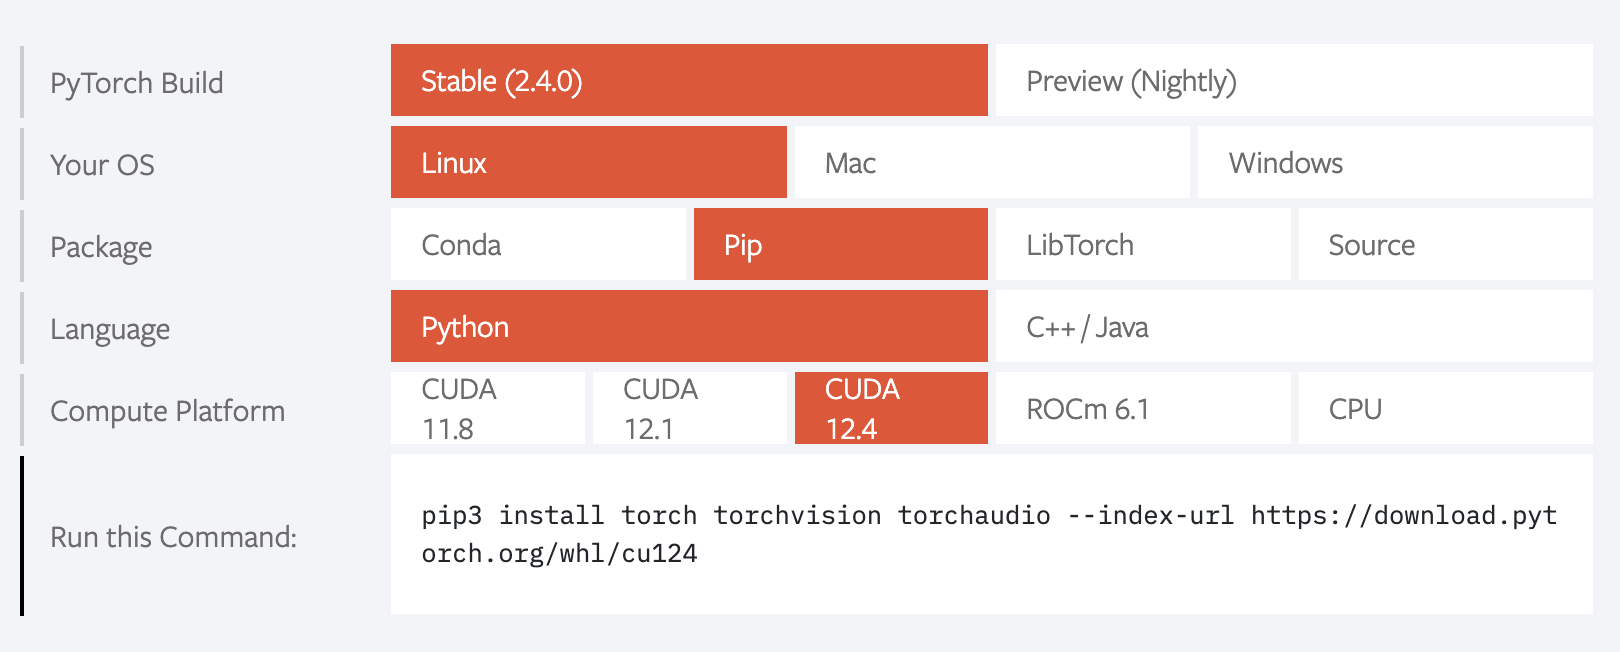
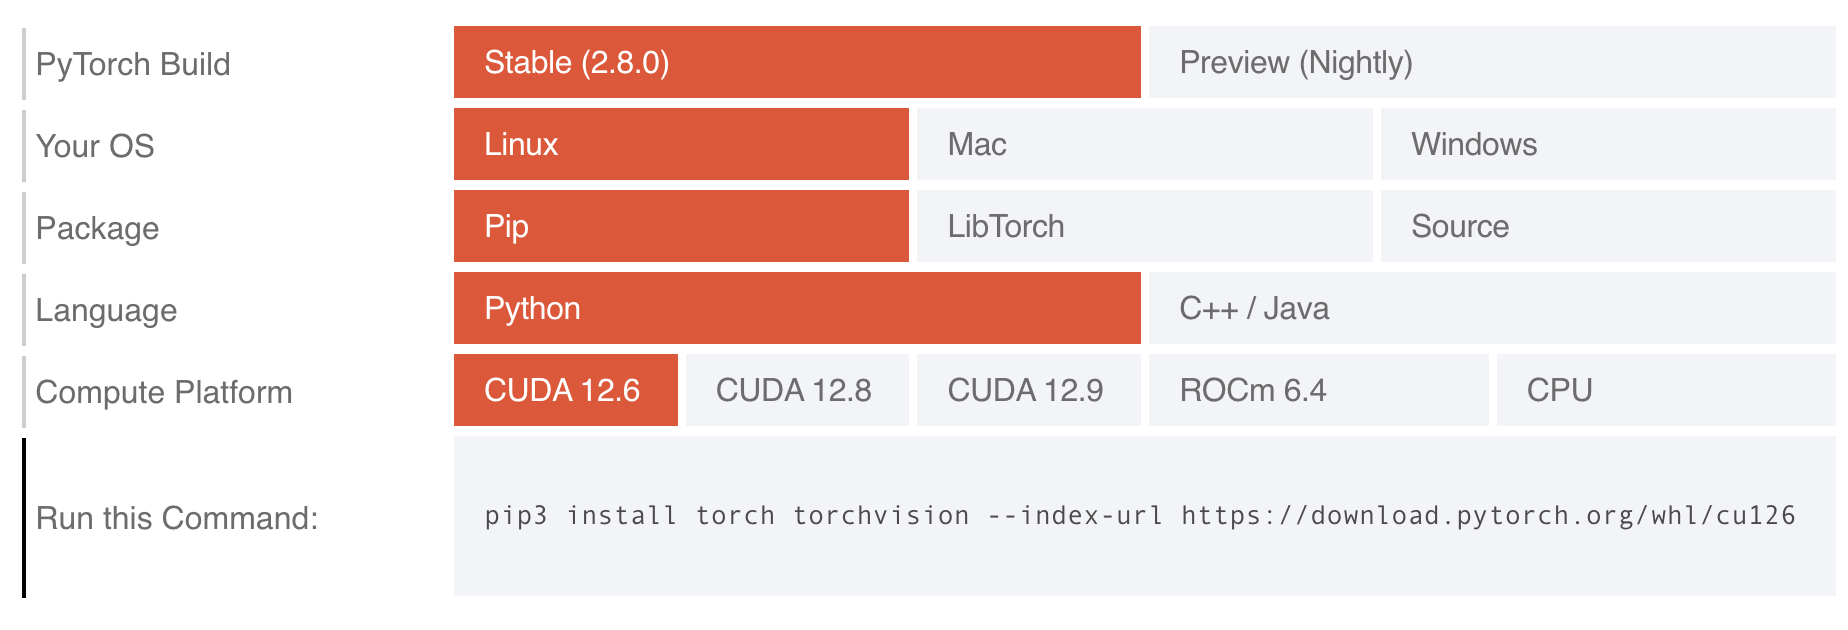
updated installation instructions

diff --git a/docs/before.md b/docs/before.md
@@ -13,6 +13,7 @@ Create and activate the conda environment for the book:
 ```
 conda create --name book
 conda activate book
+conda install pip
 ```
 
 Install PyTorch by selecting the appropriate parameters on this page: [https://pytorch.org](https://pytorch.org). Note that if your computer has a Nvidia GPU, you should select one of the CUDA versions for Compute Platform (ideally, the most recent one). 
@@ -26,13 +27,12 @@ For a Linux machine with an Nvidia GPU, the configuration should look like this:
 Then, run the indicated command. For example, for Macs the command generated is:
 
 ```
-conda install pytorch::pytorch torchvision torchaudio -c pytorch
+pip3 install torch torchvision
 ```
 
 Lastly, install a few more needed packages:
 ```
 conda install torchtext
-conda install pip
 conda install jupyter pandas matplotlib scikit-learn gensim nltk
 pip install conllu transformers datasets
 pip install accelerate -U
